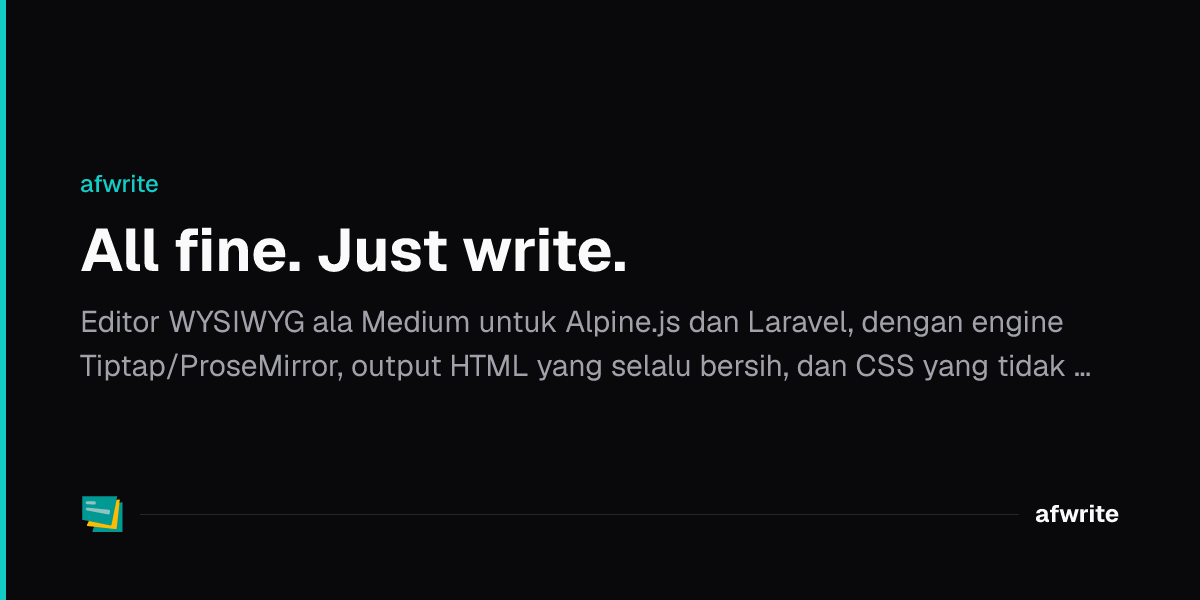
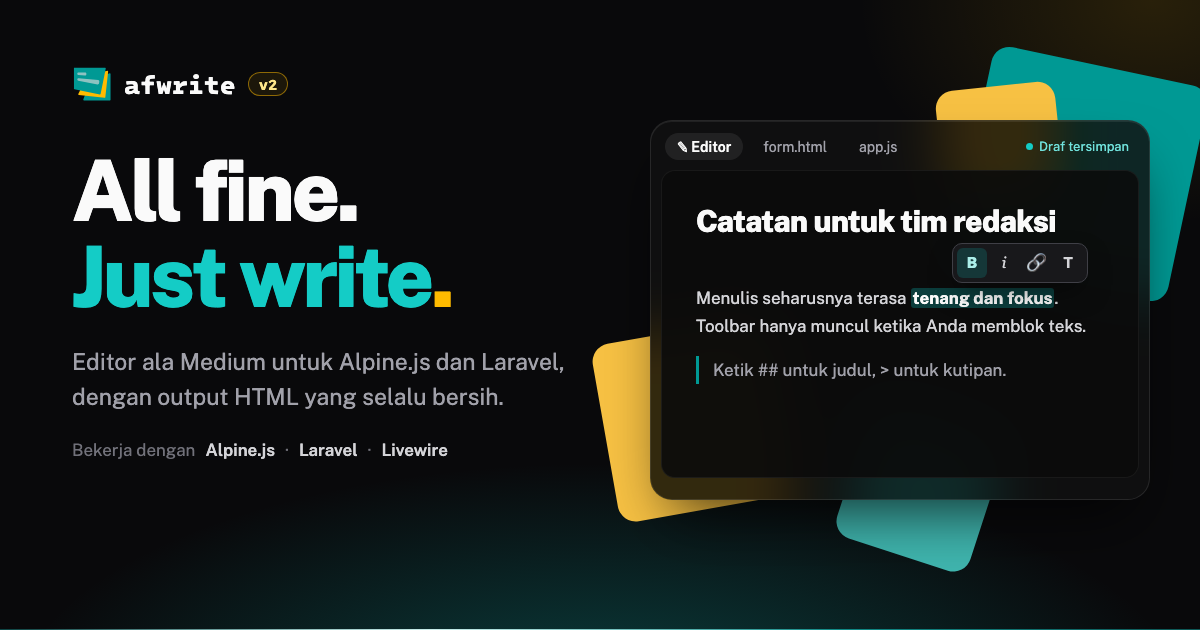
Website: gambar OG landing meniru hero (judul, mock editor kaca, kertas teal & kuning); sumber di website/og/landing.html

diff --git a/website/og/landing.html b/website/og/landing.html
@@ -1,0 +1,83 @@
+<!doctype html>
+<!-- Sumber public/og.png (gambar OG landing, 1200x630). Ubah, lalu screenshot halaman ini di viewport
+     1200x630 (mis. Playwright) dan simpan sebagai public/og.png; ?v= di meta ikut berubah otomatis. -->
+<html lang="id">
+<head>
+<meta charset="utf-8">
+<link rel="stylesheet" href="https://fonts.googleapis.com/css2?family=Public+Sans:wght@400;500;600;700;800&family=Intel+One+Mono:wght@600;700&display=swap">
+<style>
+  * { box-sizing: border-box; }
+  html, body { margin: 0; }
+  body {
+    width: 1200px; height: 630px; overflow: hidden; position: relative;
+    background: #09090b; color: #e4e4e7; font-family: 'Public Sans', sans-serif;
+  }
+  .glow { position: absolute; inset: 0;
+    background:
+      radial-gradient(70% 55% at 50% 112%, rgba(12, 180, 174, 0.32), transparent 70%),
+      radial-gradient(420px 320px at 96% 0%, rgba(255, 187, 0, 0.13), transparent 70%); }
+  .horizon { position: absolute; left: 0; right: 0; bottom: 0; height: 1px;
+    background: linear-gradient(to right, rgba(20,204,198,.3), rgba(211,247,244,.95) 36%, rgba(20,204,198,.6) 70%, rgba(20,204,198,.4)); }
+  .left { position: absolute; left: 72px; top: 64px; width: 520px; display: flex; flex-direction: column; gap: 26px; }
+  .brand { display: flex; align-items: center; gap: 12px; font-family: 'Intel One Mono', monospace; font-weight: 700; font-size: 26px; color: #fafafa; }
+  .brand img { width: 40px; height: 40px; }
+  .ver { padding: 1px 10px; border: 1px solid rgba(255,187,0,.5); border-radius: 999px; background: rgba(255,187,0,.08); font-size: 15px; color: #fde68a; }
+  h1 { margin: 18px 0 0; font-size: 84px; line-height: 1.02; font-weight: 800; letter-spacing: -0.04em; color: #fafafa; }
+  h1 .t { color: #14ccc6; } h1 .d { color: #ffbb00; }
+  p { margin: 0; font-size: 23px; line-height: 1.5; color: #a1a1aa; }
+  .works { display: flex; gap: 10px; align-items: center; font-size: 17px; color: #71717a; }
+  .works b { color: #d4d4d8; font-weight: 600; }
+  /* kanan: kertas + kaca */
+  .right { position: absolute; left: 650px; top: 120px; width: 500px; height: 380px; }
+  .paper { position: absolute; border-radius: 18px; }
+  .card { position: absolute; inset: 0; border-radius: 22px; padding: 10px;
+    background: rgba(16,16,16,.86); border: 1px solid rgba(255,255,255,.1);
+    backdrop-filter: blur(28px) saturate(160%);
+    box-shadow: inset 0 1px 0 rgba(255,255,255,.08), 0 30px 60px -20px rgba(0,0,0,.75); }
+  .tabs { display: flex; align-items: center; gap: 8px; padding: 2px 4px 10px; font-size: 14px; color: #a1a1aa; }
+  .tab { padding: 5px 12px; border-radius: 999px; }
+  .tab.on { background: rgba(255,255,255,.08); color: #fafafa; font-weight: 600; }
+  .saved { margin-left: auto; display: flex; align-items: center; gap: 6px; color: #70e2dc; font-size: 13px; padding-right: 6px; }
+  .saved i { width: 7px; height: 7px; border-radius: 50%; background: #14ccc6; }
+  .doc { position: relative; height: 308px; border-radius: 14px; background: rgba(10,10,10,.88); border: 1px solid rgba(255,255,255,.06);
+    padding: 34px 34px; display: flex; flex-direction: column; gap: 16px; font-size: 17px; line-height: 1.65; color: #d4d4d8; }
+  .doc .h { margin-bottom: 28px; font-size: 30px; font-weight: 800; letter-spacing: -0.02em; line-height: 1.15; color: #fafafa; }
+  .sel { background: rgba(12,180,174,.3); border-radius: 3px; padding: 0 2px; color: #fafafa; font-weight: 700; }
+  .q { padding-left: 14px; border-left: 3px solid #009994; color: #a1a1aa; }
+  .bubble { position: absolute; left: 290px; top: 72px; display: flex; gap: 2px; padding: 4px; border-radius: 10px; background: #18181b; border: 1px solid #3f3f46;
+    box-shadow: 0 12px 28px -8px rgba(0,0,0,.6); font-size: 15px; color: #d4d4d8; }
+  .bubble span { width: 30px; height: 30px; display: flex; align-items: center; justify-content: center; border-radius: 6px; }
+  .bubble .on { background: rgba(12,180,174,.2); color: #abefea; font-weight: 800; }
+</style>
+</head>
+<body>
+  <div class="glow"></div>
+  <div class="horizon"></div>
+
+  <div class="left">
+    <div class="brand"><img src="../public/logo.svg" alt="">afwrite<span class="ver">v2</span></div>
+    <h1>All fine.<br><span class="t">Just write</span><span class="d">.</span></h1>
+    <p>Editor ala Medium untuk Alpine.js dan Laravel, dengan output HTML yang selalu bersih.</p>
+    <div class="works">Bekerja dengan <b>Alpine.js</b>·<b>Laravel</b>·<b>Livewire</b></div>
+  </div>
+
+  <div class="right">
+    <span class="paper" style="right:-40px; top:-56px; width:220px; height:220px; background:#009994; transform:rotate(12deg)"></span>
+    <span class="paper" style="right:90px; top:-34px; width:120px; height:120px; background:#f7c143; transform:rotate(-6deg)"></span>
+    <span class="paper" style="left:-46px; bottom:-10px; width:180px; height:180px; background:#f7c143; transform:rotate(-10deg)"></span>
+    <span class="paper" style="left:40%; bottom:-58px; width:140px; height:140px; background:#3fb5ae; transform:rotate(18deg)"></span>
+    <div class="card">
+      <div class="tabs">
+        <span class="tab on">✎ Editor</span><span class="tab">form.html</span><span class="tab">app.js</span>
+        <span class="saved"><i></i>Draf tersimpan</span>
+      </div>
+      <div class="doc">
+        <div class="bubble"><span class="on">B</span><span style="font-style:italic;font-family:Georgia,serif">i</span><span>🔗</span><span style="font-weight:700">T</span></div>
+        <div class="h">Catatan untuk tim redaksi</div>
+        <div>Menulis seharusnya terasa <span class="sel">tenang dan fokus</span>. Toolbar hanya muncul ketika Anda memblok teks.</div>
+        <div class="q">Ketik ## untuk judul, &gt; untuk kutipan.</div>
+      </div>
+    </div>
+  </div>
+</body>
+</html>

diff --git a/website/app/pages/index.vue b/website/app/pages/index.vue
@@ -16,7 +16,7 @@ const description = page.value.seo?.description || page.value.description
 
 // Gambar OG landing memakai nama tetap (public/og.png), bukan hasil defineOgImage yang namanya berganti tiap isinya
 // berubah: WhatsApp dkk. menyimpan alamat gambar lama, dan alamat yang hilang membuat pratinjau link kosong.
-// Gambar ini dirender dari template OgImage/Docs (judul SLOGAN, headline BRAND); salin ulang jika slogan berubah.
+// Gambar ini meniru hero dan dirender dari website/og/landing.html; render ulang jika slogan atau hero berubah.
 const ogImage = `${unref(createSitePathResolver({ absolute: true, withBase: true })('/og.png'))}?v=${useRuntimeConfig().public.assetVersions['og.png']}`
 
 useSeoMeta({
